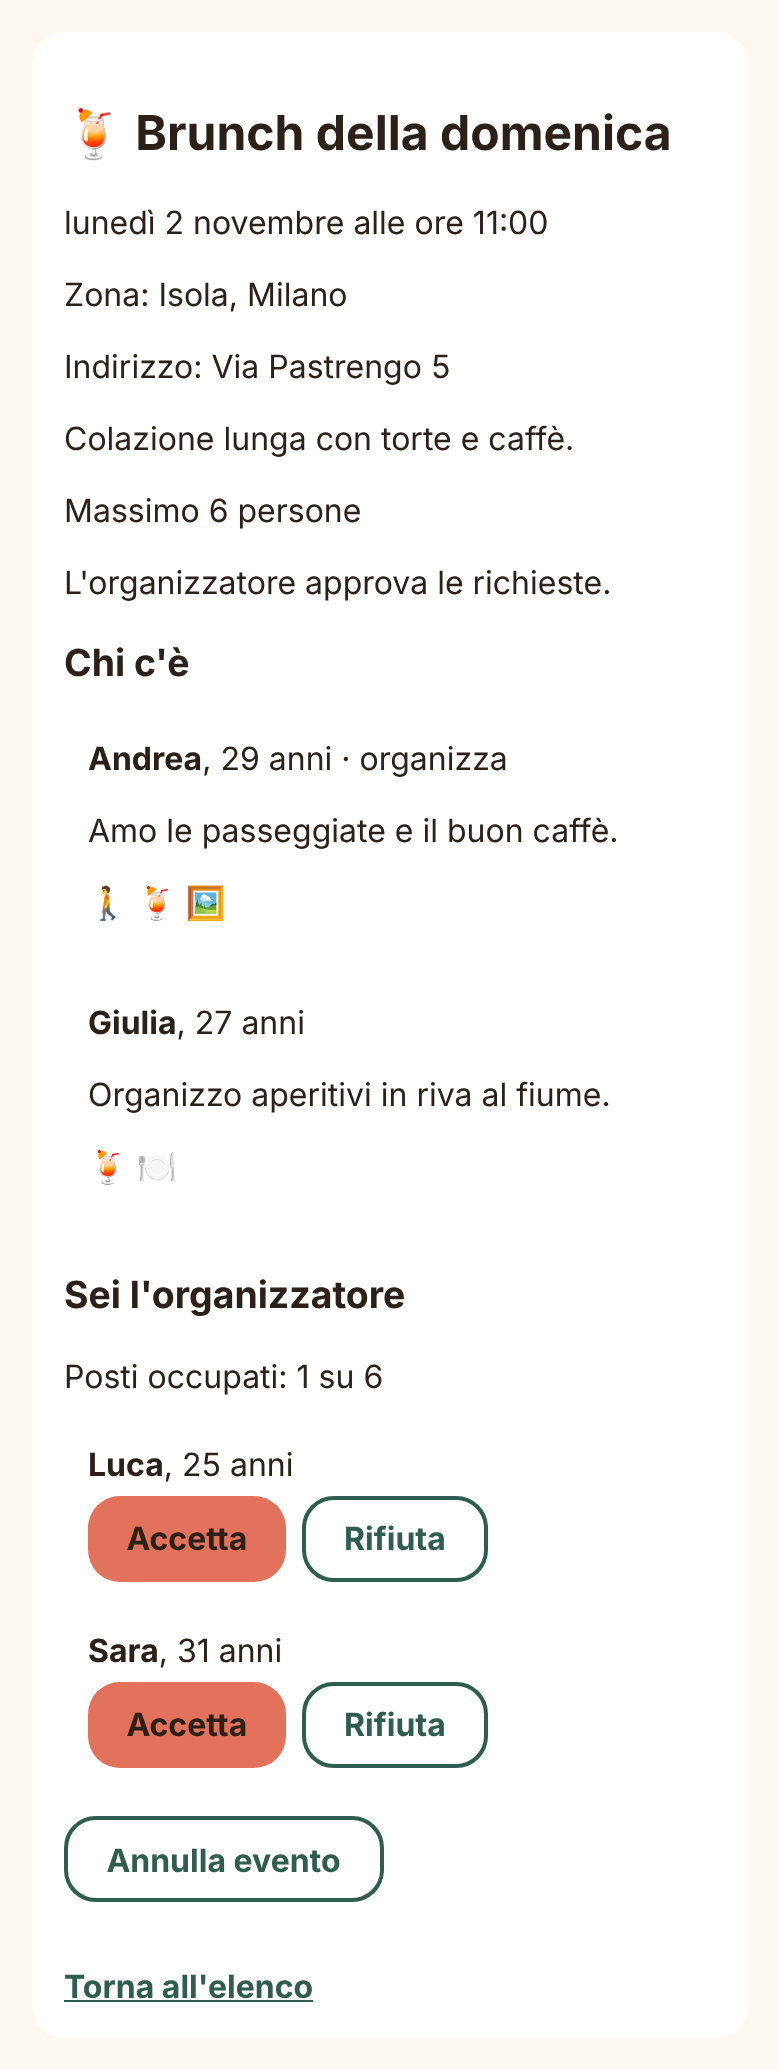
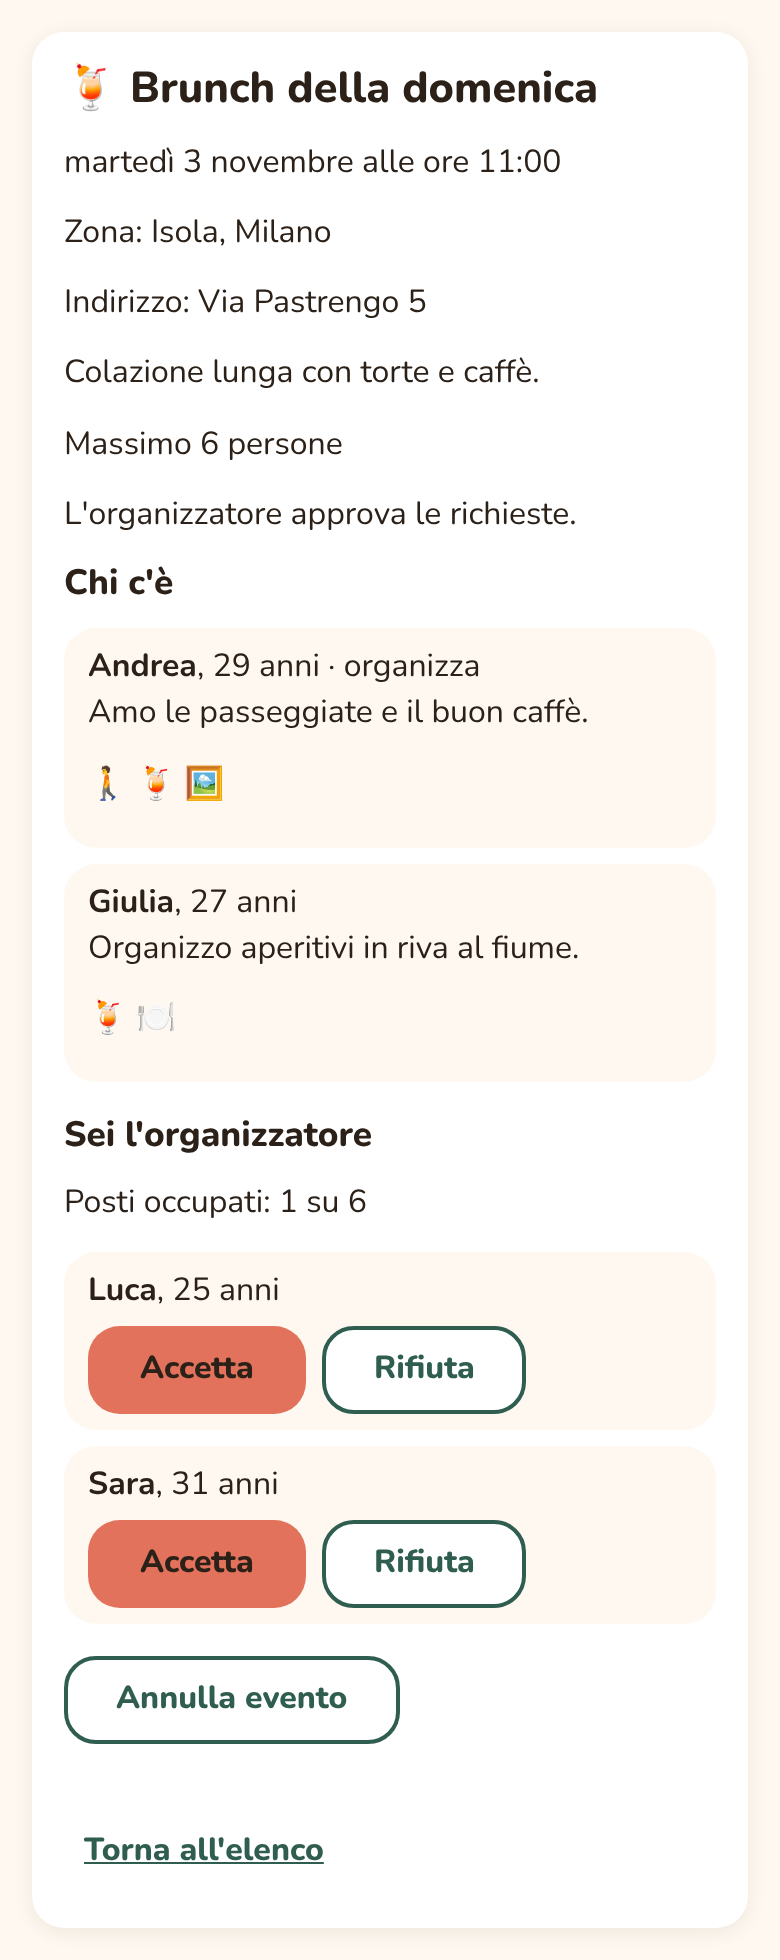
Task 21: base grafica (Nunito locale, variabili CSS, stili divisi in file piccoli)
Claude-Session: https://claude.ai/code/session_01NPSfiRs13LMibAM73V9hQC

diff --git a/src/styles.css b/src/styles.css
@@ -1,57 +1,9 @@
-body {
-  margin: 0;
-  font-family: 'Nunito', system-ui, sans-serif;
-  background: var(--color-background);
-  color: var(--color-text);
-}
-.card {
-  background: #fff;
-  border-radius: var(--radius);
-  padding: 1rem;
-  margin: 1rem;
-}
-h1 { color: var(--color-secondary); }
-.brand { text-align: center; }
-label { display: block; margin-bottom: 0.75rem; font-weight: 600; }
-input {
-  display: block; width: 100%; box-sizing: border-box; margin-top: 0.25rem;
-  padding: 0.6rem; font: inherit; border: 1px solid #d9cbbd; border-radius: 8px;
-}
-button {
-  font: inherit; font-weight: 700; color: var(--color-text); background: var(--color-primary);
-  border: 0; border-radius: var(--radius); padding: 0.6rem 1.2rem; cursor: pointer;
-}
-button:disabled { opacity: 0.6; }
-button.link { background: none; color: var(--color-secondary); padding: 0; text-decoration: underline; }
-.error { color: #b3261e; }
-.switch { text-align: center; }
-select { display: block; width: 100%; box-sizing: border-box; margin-top: 0.25rem; padding: 0.6rem; font: inherit; border: 1px solid #d9cbbd; border-radius: 8px; background: #fff; }
-textarea { display: block; width: 100%; box-sizing: border-box; min-height: 5rem; font: inherit; padding: 0.6rem; border: 1px solid #d9cbbd; border-radius: 8px; }
-fieldset { border: 0; padding: 0; margin: 0 0 0.75rem; }
-label.inline { display: inline-block; margin-right: 0.75rem; font-weight: 400; }
-label.inline input { display: inline; width: auto; }
-.avatar { width: 96px; height: 96px; object-fit: cover; border-radius: 50%; }
-.event-list { list-style: none; padding: 0; margin: 0 0 1rem; }
-.event-item { display: block; width: 100%; text-align: left; margin-bottom: 0.5rem; }
-.event-item small { display: block; font-weight: 400; }
-.event-map { height: 60vh; min-height: 280px; border-radius: var(--radius); margin: 0.75rem 0; }
-.emoji-marker span {
-  display: flex; align-items: center; justify-content: center; width: 36px; height: 36px;
-  font-size: 20px; background: #fff; border: 2px solid var(--color-primary); border-radius: 50%;
-}
-
-.people { list-style: none; padding: 0; display: grid; gap: 8px; }
-.people li { background: #fff; border-radius: 16px; padding: 8px 12px; }
-.people img { border-radius: 50%; vertical-align: middle; margin-right: 8px; object-fit: cover; }
-
-.filters { display: grid; gap: 8px; margin-bottom: 12px; }
-.filters [role='group'] { display: flex; flex-wrap: wrap; gap: 6px; }
-.filters button[aria-pressed='true'] { background: #2F5D50; color: #fff; }
-button.secondary { background: #fff; color: var(--color-secondary); border: 2px solid var(--color-secondary); }
-section[aria-label='Partecipazione'], section[aria-label='Organizzazione'] { margin: 1rem 0; }
-section[aria-label='Partecipazione'] button + button { margin-left: 0.5rem; }
-section[aria-label='Organizzazione'] > button.secondary { margin-bottom: 1rem; }
-.requests { list-style: none; padding: 0; display: grid; gap: 8px; }
-.requests li { background: #fff; border-radius: 16px; padding: 8px 12px; }
-.row-actions { display: flex; gap: 8px; margin-top: 6px; }
-.row-actions button.secondary { margin-left: 0; }
+/* Punto d'ingresso degli stili: un file per argomento in src/styles/. */
+@import './styles/tokens.css';
+@import './styles/base.css';
+@import './styles/cards.css';
+@import './styles/buttons.css';
+@import './styles/forms.css';
+@import './styles/feedback.css';
+@import './styles/lists.css';
+@import './styles/map.css';

diff --git a/src/styles/lists.css b/src/styles/lists.css
@@ -1,0 +1,20 @@
+.event-list, .people, .requests { list-style: none; padding: 0; margin: 0 0 var(--space-4); display: grid; gap: var(--space-2); }
+.event-item {
+  display: block; width: 100%; text-align: left; padding: var(--space-3) var(--space-4);
+  background: var(--color-background); color: var(--color-text);
+  border: 2px solid var(--color-border); font-weight: 800;
+}
+.event-item small { display: block; font-weight: 400; }
+.people li, .requests li { background: var(--color-background); border-radius: var(--radius); padding: var(--space-2) var(--space-3); }
+.people img { border-radius: 50%; vertical-align: middle; margin-right: var(--space-2); object-fit: cover; }
+.row-actions { display: flex; gap: var(--space-2); margin-top: 6px; }
+.filters { display: grid; gap: var(--space-2); margin-bottom: var(--space-3); }
+.filters [role='group'] { display: flex; flex-wrap: wrap; gap: 6px; }
+.filters button {
+  min-height: 36px; padding: 0 var(--space-3);
+  background: var(--color-surface); color: var(--color-secondary); border-color: var(--color-secondary);
+}
+.filters button[aria-pressed='true'] { background: var(--color-secondary); color: #fff; }
+section[aria-label='Partecipazione'], section[aria-label='Organizzazione'] { margin: var(--space-4) 0; }
+section[aria-label='Partecipazione'] button + button { margin-left: var(--space-2); }
+section[aria-label='Organizzazione'] > button.secondary { margin-bottom: var(--space-4); }

diff --git a/src/styles/feedback.css b/src/styles/feedback.css
@@ -1,0 +1,19 @@
+.error, .field-error { color: var(--color-error); font-weight: 700; }
+.field-error { font-size: 0.875rem; margin: var(--space-1) 0 0; }
+.loading { display: flex; align-items: center; gap: var(--space-2); color: var(--color-muted); }
+.loading::before {
+  content: ''; width: 18px; height: 18px; border-radius: 50%;
+  border: 3px solid var(--color-border); border-top-color: var(--color-primary);
+  animation: spin 0.8s linear infinite;
+}
+@keyframes spin { to { transform: rotate(360deg); } }
+@media (prefers-reduced-motion: reduce) { .loading::before { animation-duration: 3s; } button { transition: none; } }
+.empty { text-align: center; color: var(--color-muted); padding: var(--space-6) var(--space-4); }
+.chip {
+  display: inline-flex; align-items: center; min-height: 36px; padding: 0 var(--space-3);
+  border-radius: 999px; background: var(--color-surface); border: 2px solid var(--color-border); font-weight: 700;
+}
+.badge {
+  display: inline-block; padding: 2px var(--space-2); border-radius: 999px;
+  background: var(--color-accent); color: var(--color-text); font-size: 0.8rem; font-weight: 800;
+}

diff --git a/src/screens/EventListScreen.tsx b/src/screens/EventListScreen.tsx
@@ -24,10 +24,10 @@ export function EventListScreen({ onOpen, onBack }: Props) {
     <section className="card">
       <h2>Eventi in programma</h2>
       <FiltersBar filters={filters} onChange={setFilters} position={position} onAskPosition={ask} />
-      {loading && <p>Caricamento…</p>}
+      {loading && <p className="loading">Caricamento…</p>}
       {failed && <p role="alert" className="error">Non riesco a caricare gli eventi.</p>}
-      {!loading && !failed && list.length === 0 && <p>Nessun evento in programma.</p>}
-      {!loading && !failed && list.length > 0 && shown.length === 0 && <p>Nessun evento con questi filtri.</p>}
+      {!loading && !failed && list.length === 0 && <p className="empty">Nessun evento in programma.</p>}
+      {!loading && !failed && list.length > 0 && shown.length === 0 && <p className="empty">Nessun evento con questi filtri.</p>}
       <ul className="event-list">
         {shown.map((event) => (
           <li key={event.id}>

diff --git a/src/styles/forms.css b/src/styles/forms.css
@@ -1,0 +1,13 @@
+label { display: block; margin-bottom: var(--space-3); font-weight: 700; }
+input, select, textarea {
+  display: block; width: 100%; margin-top: var(--space-1);
+  min-height: var(--tap); padding: var(--space-2) var(--space-3);
+  font: inherit; font-weight: 400; color: var(--color-text);
+  background: var(--color-surface); border: 2px solid var(--color-border); border-radius: 12px;
+}
+textarea { min-height: 5.5rem; }
+input:focus, select:focus, textarea:focus { outline: none; border-color: var(--color-secondary); }
+input[aria-invalid='true'], select[aria-invalid='true'], textarea[aria-invalid='true'] { border-color: var(--color-error); }
+fieldset { border: 0; padding: 0; margin: 0 0 var(--space-3); }
+label.inline { display: inline-block; margin-right: var(--space-3); font-weight: 400; }
+label.inline input { display: inline; width: auto; min-height: 0; }

diff --git a/src/styles/buttons.css b/src/styles/buttons.css
@@ -1,0 +1,15 @@
+/* Tre varianti: primario (default), secondario (.secondary), testo (.link). */
+button {
+  font: inherit; font-weight: 800; color: var(--color-text); background: var(--color-primary);
+  border: 2px solid transparent; border-radius: var(--radius);
+  min-height: var(--tap); padding: 0 var(--space-6); cursor: pointer;
+  transition: transform 0.08s ease, filter 0.15s ease;
+}
+button:active:not(:disabled) { transform: scale(0.97); }
+button:hover:not(:disabled) { filter: brightness(0.96); }
+button:disabled { opacity: 0.55; cursor: not-allowed; }
+button.secondary { background: var(--color-surface); color: var(--color-secondary); border-color: var(--color-secondary); }
+button.link {
+  background: none; color: var(--color-secondary); padding: 0 var(--space-2);
+  text-decoration: underline; min-height: var(--tap);
+}

diff --git a/src/styles/styles.test.ts b/src/styles/styles.test.ts
@@ -1,0 +1,22 @@
+import { readFileSync, readdirSync } from 'node:fs'
+import { describe, expect, it } from 'vitest'
+
+const dir = 'src/styles'
+
+describe('stili', () => {
+  it('styles.css importa tutti i file della cartella styles', () => {
+    const entry = readFileSync('src/styles.css', 'utf8')
+    const files = readdirSync(dir).filter((f) => f.endsWith('.css'))
+    for (const f of files) expect(entry).toContain(`./styles/${f}`)
+  })
+
+  it('ogni file di stile resta corto', () => {
+    for (const f of readdirSync(dir).filter((x) => x.endsWith('.css'))) {
+      expect(readFileSync(`${dir}/${f}`, 'utf8').split('\n').length).toBeLessThanOrEqual(60)
+    }
+  })
+
+  it('il font Nunito è usato dalle variabili', () => {
+    expect(readFileSync(`${dir}/tokens.css`, 'utf8')).toContain('Nunito')
+  })
+})

diff --git a/src/styles/base.css b/src/styles/base.css
@@ -1,0 +1,19 @@
+* { box-sizing: border-box; }
+body {
+  margin: 0;
+  font-family: var(--font);
+  font-size: 1rem;
+  line-height: 1.45;
+  background: var(--color-background);
+  color: var(--color-text);
+  -webkit-tap-highlight-color: transparent;
+}
+h1, h2, h3 { line-height: 1.2; margin: 0 0 var(--space-3); font-weight: 800; }
+h1 { color: var(--color-secondary); font-size: 1.75rem; }
+h2 { font-size: 1.35rem; }
+h3 { font-size: 1.1rem; }
+p { margin: 0 0 var(--space-3); }
+small { color: var(--color-muted); }
+:focus-visible { outline: 3px solid var(--color-secondary); outline-offset: 2px; }
+.brand { text-align: center; }
+.switch { text-align: center; }

diff --git a/src/screens/OrganizerActions.tsx b/src/screens/OrganizerActions.tsx
@@ -23,7 +23,7 @@ export function OrganizerActions({ event, uid, requests, confirmedCount, onChang
       <h3>Sei l'organizzatore</h3>
       <p>Posti occupati: {confirmedCount} su {event.maxPartecipanti}</p>
       {cancelled && <p>Questo evento è stato annullato.</p>}
-      {!cancelled && requests.length === 0 && event.richiedeApprovazione && <p>Nessuna richiesta in attesa.</p>}
+      {!cancelled && requests.length === 0 && event.richiedeApprovazione && <p className="empty">Nessuna richiesta in attesa.</p>}
       {!cancelled && requests.length > 0 && (
         <ul className="requests">
           {requests.map((r) => (

diff --git a/src/config/contrastPairs.ts b/src/config/contrastPairs.ts
@@ -13,6 +13,8 @@ export const PAIRS = [
   { name: 'testo su accento', fg: text, bg: accent, min: 4.5 },
   { name: 'titoli e link (secondario su sfondo)', fg: secondary, bg: background, min: 4.5 },
   { name: 'bianco su secondario (filtri attivi)', fg: WHITE, bg: secondary, min: 4.5 },
+  { name: 'testo secondario (grigio caldo su sfondo)', fg: '#6b5a4c', bg: background, min: 4.5 },
+  { name: 'errori (rosso su schede bianche)', fg: '#b3261e', bg: WHITE, min: 4.5 },
   { name: 'bordo marker (primario su bianco)', fg: primary, bg: WHITE, min: 3 },
 ] as const
 

diff --git a/src/screens/MyEventsScreen.tsx b/src/screens/MyEventsScreen.tsx
@@ -28,7 +28,7 @@ export function MyEventsScreen({ uid, onOpen, onBack }: { uid: string; onOpen: (
   return (
     <section className="card">
       <h2>I miei eventi</h2>
-      {loading && <p>Caricamento…</p>}
+      {loading && <p className="loading">Caricamento…</p>}
       {failed && <p role="alert" className="error">Non riesco a caricare i tuoi eventi.</p>}
       {error && <p role="alert" className="error">{error}</p>}
       {!loading && !failed && mine.organized.length === 0 && <p>Non organizzi ancora nessun evento.</p>}

diff --git a/src/screens/MapScreen.tsx b/src/screens/MapScreen.tsx
@@ -18,7 +18,7 @@ export function MapScreen({ onOpen, onBack }: Props) {
   return (
     <section className="card">
       <h2>Mappa</h2>
-      {loading && <p>Caricamento…</p>}
+      {loading && <p className="loading">Caricamento…</p>}
       {failed && <p role="alert" className="error">Non riesco a caricare gli eventi.</p>}
       {!loading && !failed && <EventMap markers={markers} onSelect={onOpen} />}
       <button type="button" className="link" onClick={onBack}>Indietro</button>
